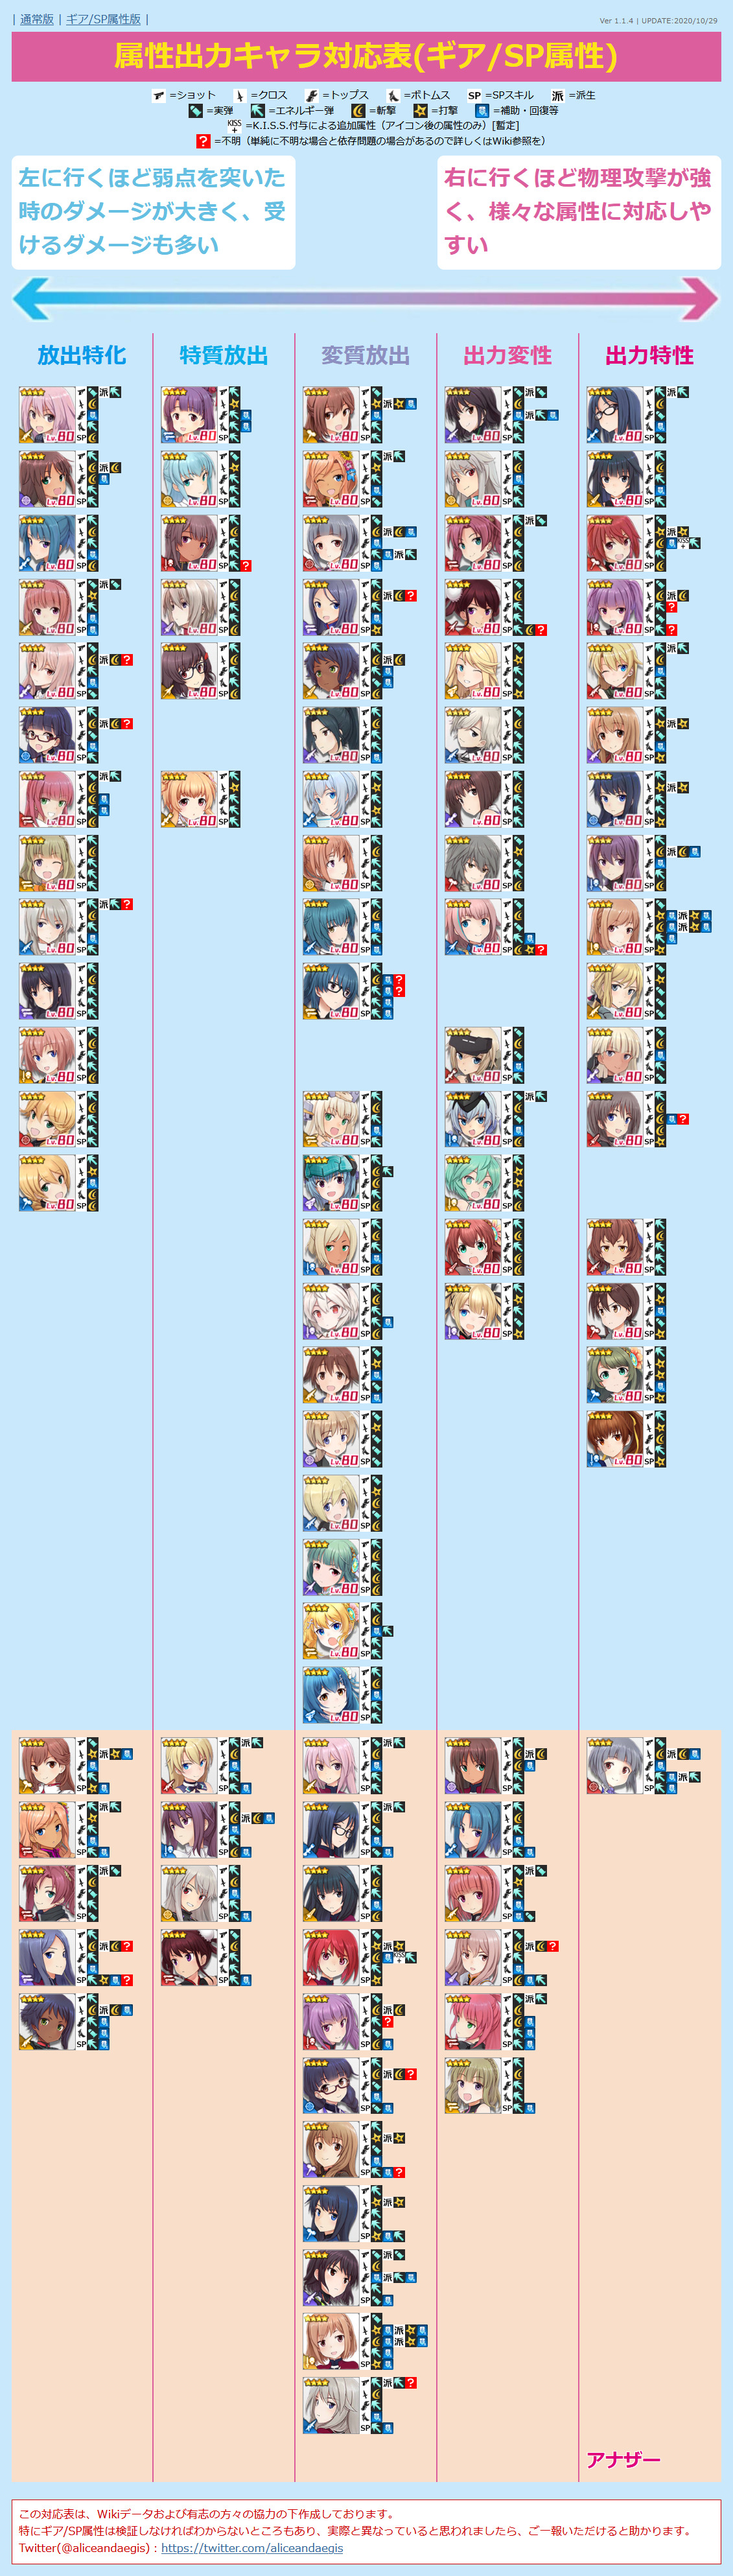
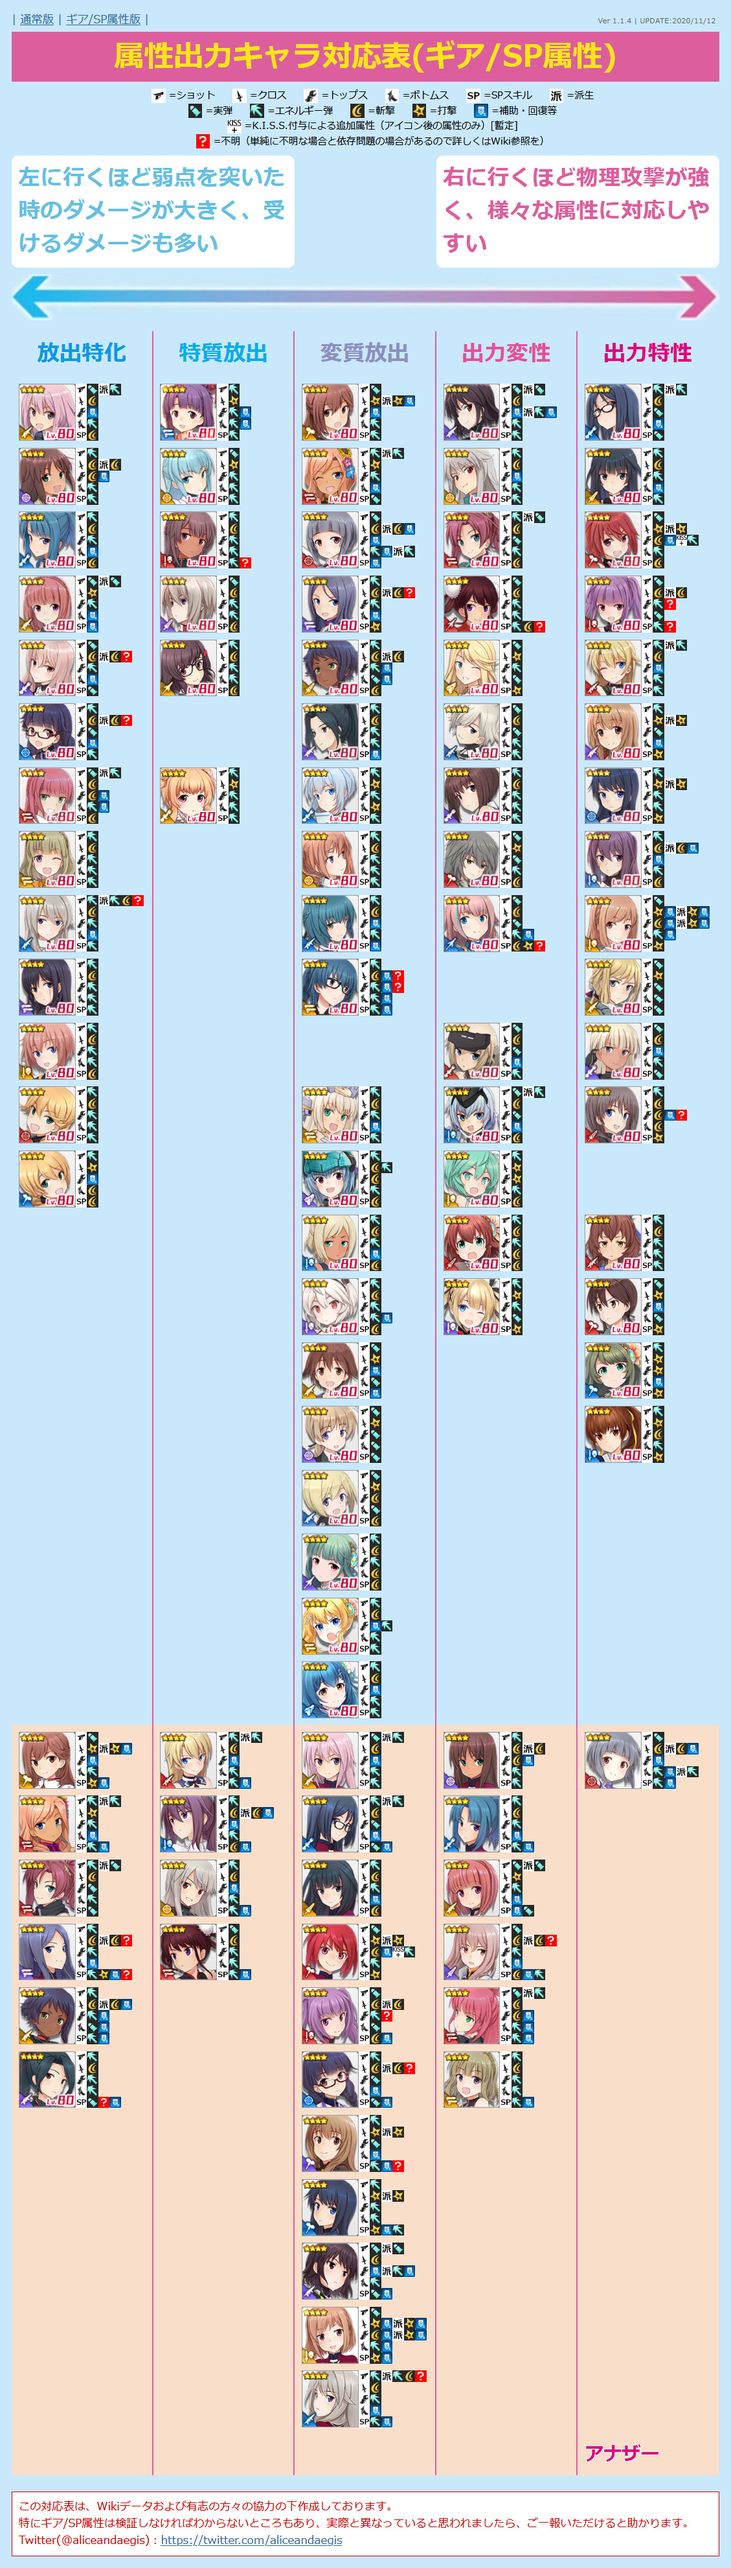
UPDATE charadata
・紺堂 地衛理の派生ショットの属性更新
・アナザー 山野 薫子を追加

diff --git a/alice.html b/alice.html
@@ -12,7 +12,7 @@
   <script>
 
 /* 更新情報 必要に応じて書き換えてください */
-  var version = "Ver 1.1.4 | UPDATE:2020/10/29";
+  var version = "Ver 1.1.4 | UPDATE:2020/11/12";
 
 /*
   jsonファイルを外部に設置すると単にHTMLファイルを開いたときに動作しなくなるので当面はHTMLファイル内に
@@ -756,7 +756,7 @@
       "type": "1",
       "src": "normal-chieri.png",
       "name": "紺堂 地衛理",
-      "equip1": "2/2?",
+      "equip1": "2/23?",
       "equip2": "3",
       "equip3": "2",
       "equip4": "5",
@@ -770,7 +770,7 @@
       "type": "3",
       "src": "another-chieri.png",
       "name": "紺堂 地衛理 / 晨星",
-      "equip1": "2/2?",
+      "equip1": "2/23?",
       "equip2": "3",
       "equip3": "2",
       "equip4": "5",
@@ -820,6 +820,20 @@
       "attr": "2",
       "link": "https://wikiwiki.jp/alicegear/%E5%B1%B1%E9%87%8E%E8%96%AB%E5%AD%90",
       "category": ""
+    },
+    {
+      "id": "28",
+      "type": "1",
+      "src": "another-kaoruko.png",
+      "name": "山野 薫子 / 玄妙",
+      "equip1": "2",
+      "equip2": "3",
+      "equip3": "2",
+      "equip4": "2",
+      "sp": "1?5",
+      "attr": "2",
+      "link": "https://wikiwiki.jp/alicegear/%E5%B1%B1%E9%87%8E%E8%96%AB%E5%AD%90%E7%8E%84%E5%A6%99",
+      "category": "10"
     },
     {
       "id": "29",
